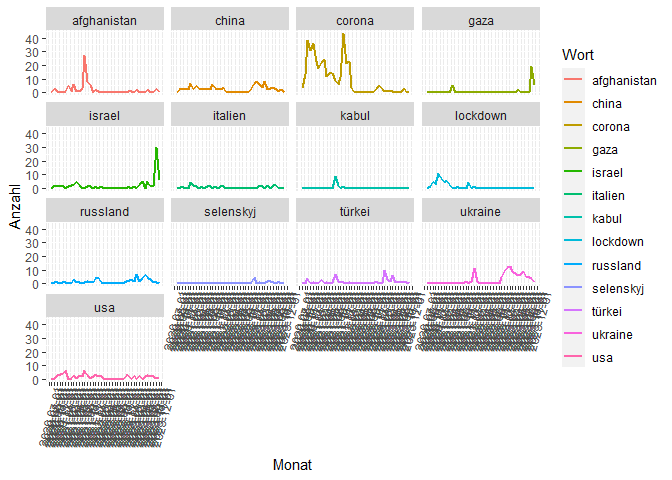
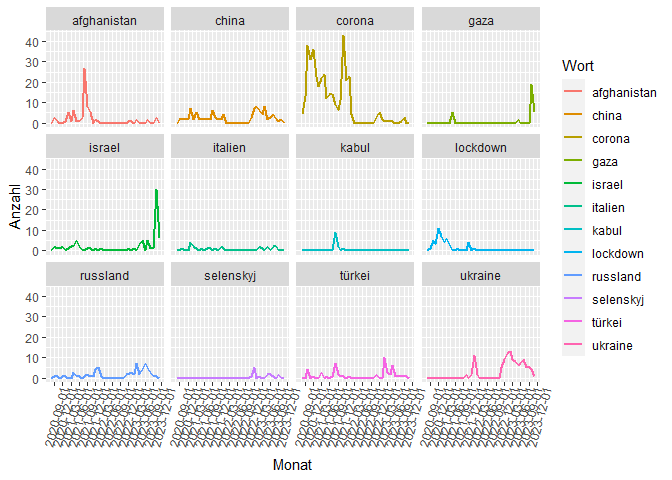
update analysis

Changed region(s): [[0.0312, 0.0625, 0.8438, 0.9375], [0.8125, 0.0938, 1.0, 0.75], [0.375, 0.1562, 0.4062, 0.1875]]

diff --git a/analysis.md b/analysis.md
@@ -258,7 +258,7 @@ and print keywords over time.
 
 ``` r
 # Select keywords
-keywords <- c("lockdown", "corona", "afghanistan", "kabul", "ukraine", "russland", "gaza", "israel", "china", "türkei", "italien", "usa", "selenskyj")
+keywords <- c("lockdown", "corona", "afghanistan", "kabul", "ukraine", "russland", "gaza", "israel", "china", "türkei", "italien", "selenskyj")
 
 # Selected keywords over time
 news_clean_unnested %>% 
@@ -274,7 +274,7 @@ news_clean_unnested %>%
   ggplot(aes(x = Monat, y = Anzahl, color = Wort)) +
   geom_line(size = 1) +
   facet_wrap(~Wort) +
-  scale_x_date(breaks = "1 month") +
+  scale_x_date(breaks = "3 month") +
   theme(axis.text.x = element_text(angle = 75, vjust = 0.58))
 ```
 
